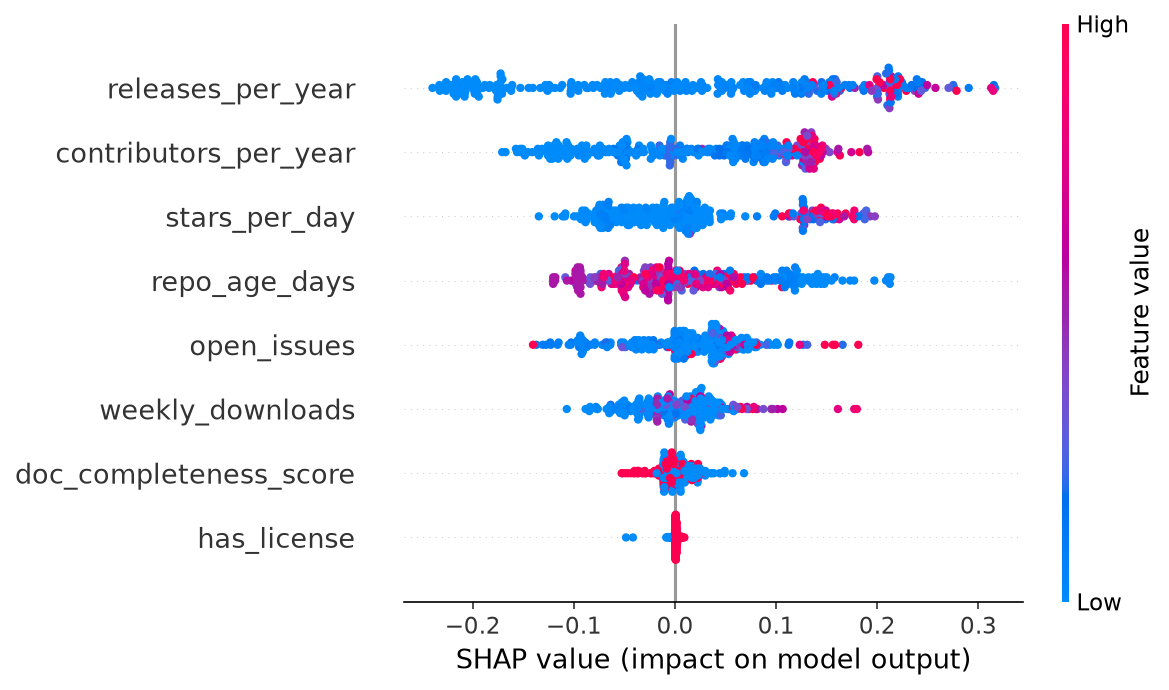
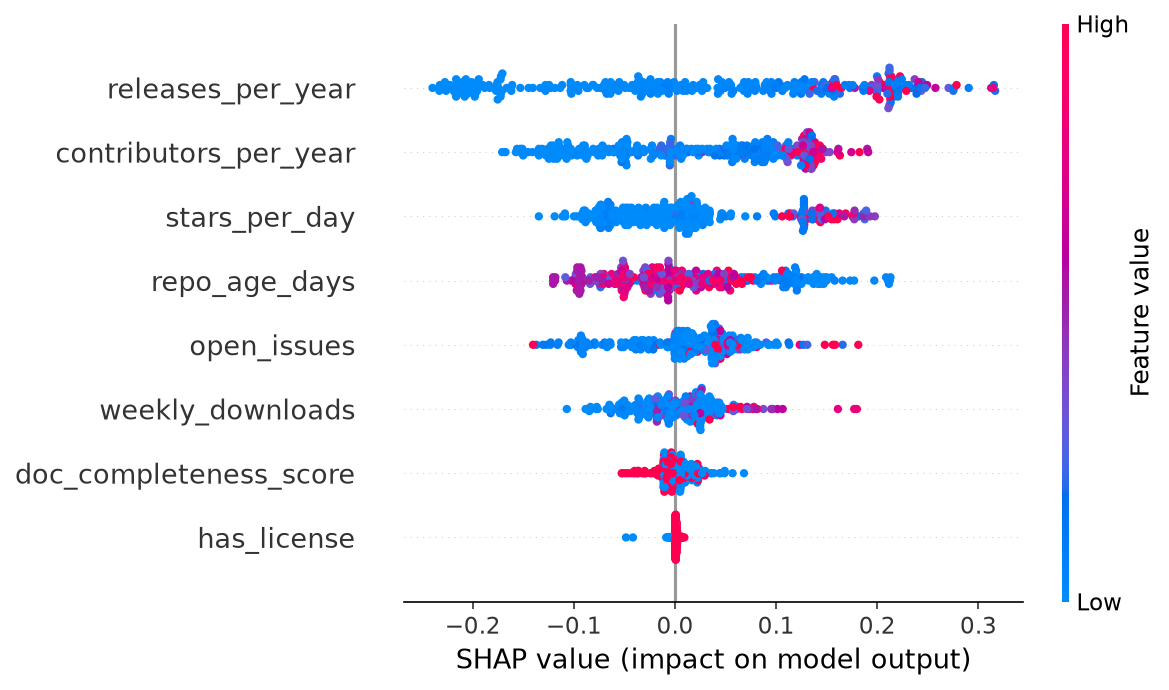
Commit missed Day 14 change: save_model function in train_model.py; refresh SHAP plot

diff --git a/src/train_model.py b/src/train_model.py
@@ -5,7 +5,7 @@ from sklearn.metrics import classification_report, confusion_matrix
 from sklearn.model_selection import cross_val_score, StratifiedKFold
 from sklearn.model_selection import GridSearchCV
 from xgboost import XGBClassifier
-
+import joblib
 
 
 
@@ -143,6 +143,16 @@ def train_xgboost(X_train, y_train):
 
 
 
+
+
+
+def save_model(model, path="models/random_forest_model.pkl"):
+    joblib.dump(model, path)
+    print(f"\n✅ Model saved to {path}")
+
+
+
+
 if __name__ == "__main__":
     df = load_features()
     X, y = get_X_y(df)
@@ -188,3 +198,5 @@ if __name__ == "__main__":
 
     evaluate_model(xgb_model, X_test, y_test)
     run_cross_validation(xgb_model, X, y)
+
+    save_model(tuned_model)
